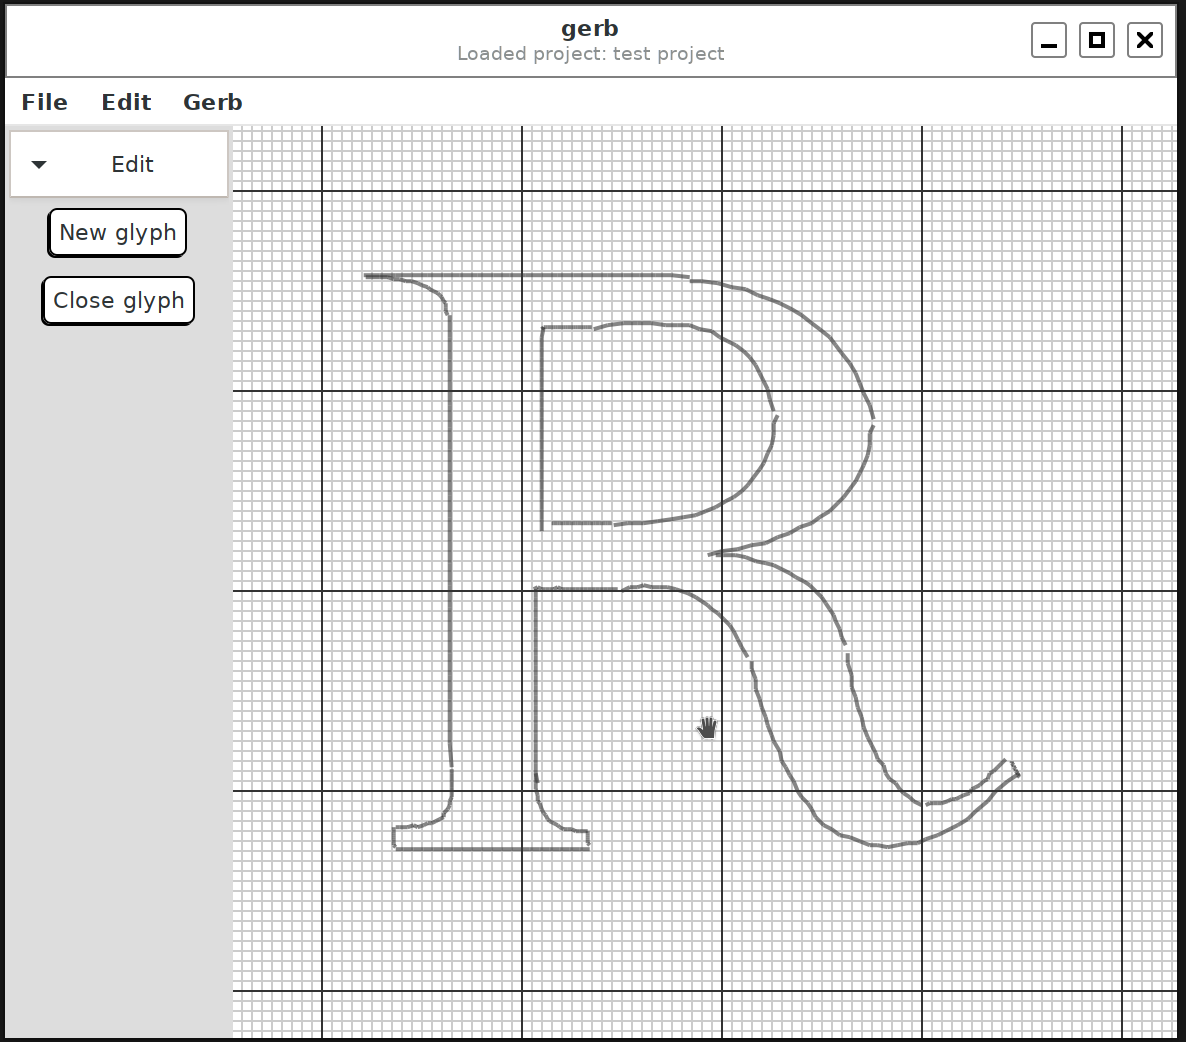
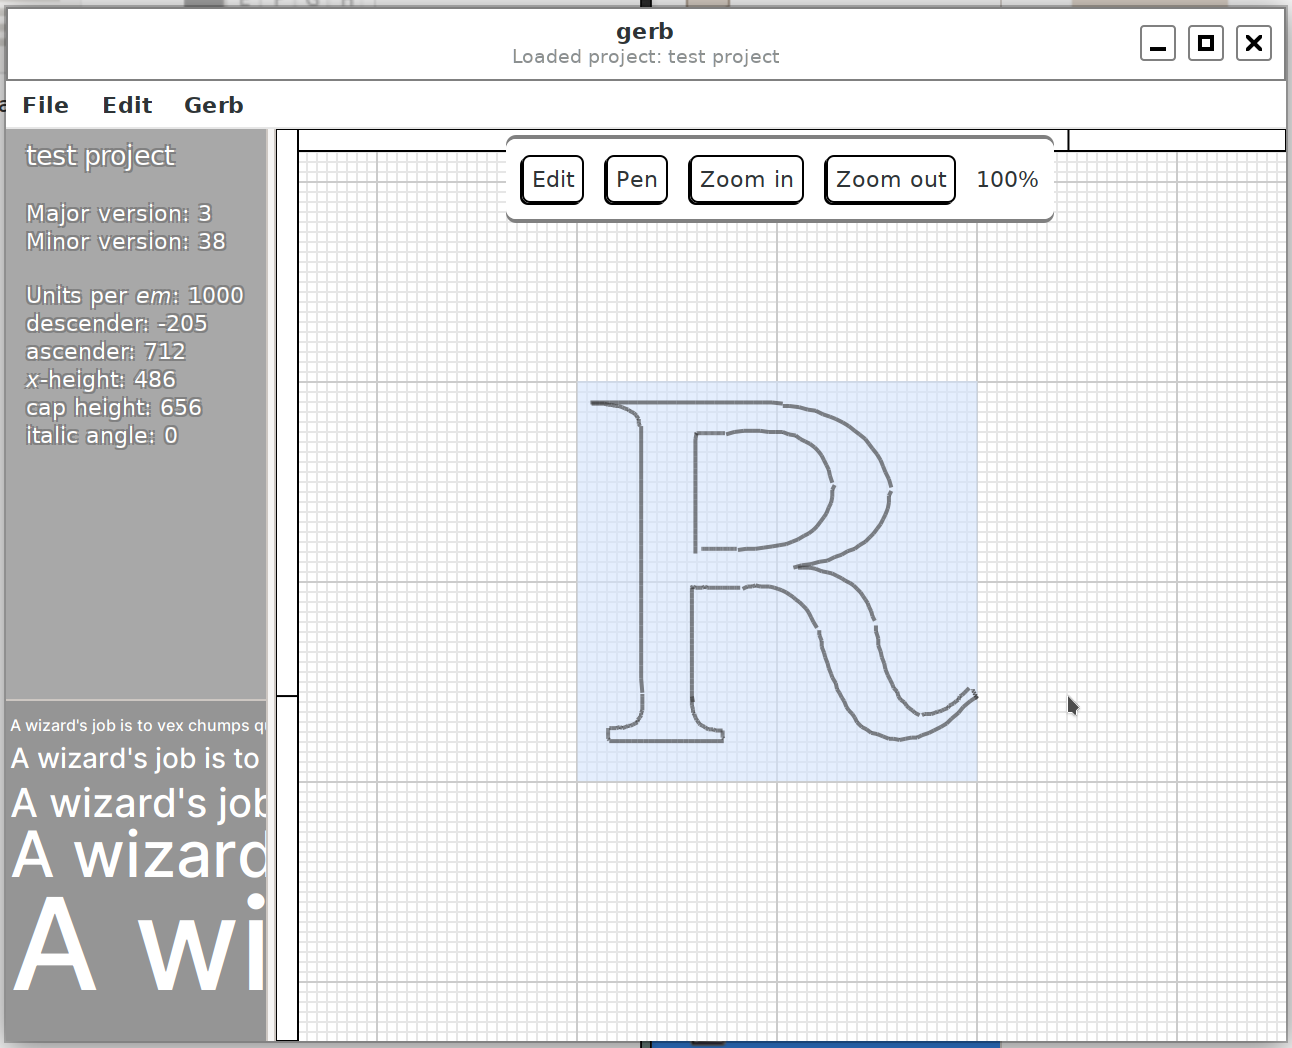
Replace sidebar with Project info view

diff --git a/src/custom.css b/src/custom.css
@@ -44,12 +44,19 @@ window headerbar * {
   background: white;
 }
 
+
+.text-button:checked label {
+  color: white;
+  background: black;
+}
+
 toolpalette  {
   background: #DDD;
 }
 
 .text-button {
   background: none;
+  padding: 5px;
 }
 
 .glyph-edit-toolbox {
@@ -62,4 +69,23 @@ toolpalette  {
 
 .glyph-edit-toolbox * {
   padding: 2px;
+}
+
+.project-label {
+  padding: 5px;
+  /*
+  background: #a8a8a8;
+  color: #2d2d2d;
+   */
+}
+
+.sidebar {
+  background: #a8a8a8;
+  color: #fff;
+  text-shadow: 1px 1px grey, -1px -1px grey, 1px -1px grey, -1px 1px grey;
+}
+
+.project-minimap {
+  background: #959595;
+  color:black;
 }

diff --git a/src/window.rs b/src/window.rs
@@ -20,12 +20,12 @@
  */
 
 use glib::clone;
+use gtk::cairo::{Context, FontSlant, FontWeight};
 use gtk::glib;
 use gtk::glib::subclass::Signal;
 use gtk::prelude::*;
 use gtk::subclass::prelude::*;
 use once_cell::{sync::Lazy, unsync::OnceCell};
-use std::cell::Cell;
 use std::sync::{Arc, Mutex};
 
 use crate::app::GerbApp;
@@ -34,11 +34,13 @@ use crate::project::Project;
 #[derive(Debug)]
 struct WindowWidgets {
     headerbar: gtk::HeaderBar,
-    grid: gtk::Grid,
+    paned: gtk::Paned,
     tool_palette: gtk::ToolPalette,
     create_item_group: gtk::ToolItemGroup,
     project_item_group: gtk::ToolItemGroup,
     stack: gtk::Stack,
+    project_label: gtk::Label,
+    minimap: gtk::DrawingArea,
 }
 
 #[derive(Debug, Default)]
@@ -74,10 +76,16 @@ impl ObjectImpl for Window {
             .visible(true)
             .can_focus(true)
             .build();
-        let grid = gtk::Grid::builder().expand(true).visible(true).build();
-        grid.attach(&stack, 1, 0, 1, 1);
+        let paned = gtk::Paned::builder()
+            .orientation(gtk::Orientation::Horizontal)
+            .expand(true)
+            .visible(true)
+            .wide_handle(true)
+            .position(130)
+            .build();
+        paned.pack2(&stack, true, false);
 
-        obj.set_child(Some(&grid));
+        obj.set_child(Some(&paned));
         obj.set_titlebar(Some(&headerbar));
         obj.set_default_size(640, 480);
         obj.set_events(
@@ -94,15 +102,79 @@ impl ObjectImpl for Window {
             None
         }));
 
-        let tool_palette = gtk::ToolPalette::new();
-        tool_palette.set_border_width(2);
+        let tool_palette = gtk::ToolPalette::builder()
+            .border_width(2)
+            .hexpand(false)
+            .vexpand(true)
+            .build();
         let create_item_group = gtk::ToolItemGroup::new("Create/load project");
         let new_button = gtk::ToolButton::new(gtk::ToolButton::NONE, Some("Create"));
         let load_button = gtk::ToolButton::new(gtk::ToolButton::NONE, Some("Load..."));
         create_item_group.add(&new_button);
         create_item_group.add(&load_button);
         tool_palette.add(&create_item_group);
-        grid.attach(&tool_palette, 0, 0, 1, 1);
+
+        let sidebar = gtk::Paned::builder()
+            .orientation(gtk::Orientation::Vertical)
+            .expand(true)
+            .position(300)
+            .visible(true)
+            .can_focus(true)
+            .build();
+        let project_label = gtk::Label::builder()
+            .label("No project loaded.")
+            .expand(true)
+            .visible(true)
+            .build();
+        project_label.set_valign(gtk::Align::Start);
+        project_label.style_context().add_class("project-label");
+        sidebar.pack1(&project_label, true, false);
+        let minimap = gtk::DrawingArea::builder()
+            .expand(true)
+            .visible(true)
+            .tooltip_text("pangram minimap")
+            .build();
+
+        minimap.connect_draw(clone!(@weak obj => @default-return Inhibit(false), move |_drar: &gtk::DrawingArea, cr: &Context| {
+            const PANGRAM: &str = "A wizard's job is to vex chumps quickly in fog.";
+            let (red, green, blue) = crate::utils::hex_color_to_rgb("#959595").unwrap();
+            cr.set_source_rgb(red, green, blue);
+            cr.paint().expect("Invalid cairo surface state");
+            cr.select_font_face("Inter", FontSlant::Normal, FontWeight::Normal);
+            cr.set_source_rgb(1., 1., 1.);
+            cr.set_font_size(8.);
+            let (x, mut y) = (2., 15.);
+            cr.move_to(x, y);
+            let extends = cr.text_extents(PANGRAM).unwrap();
+            cr.show_text(PANGRAM).expect("Invalid cairo surface state");
+            y += extends.height + 10.;
+            cr.move_to(x, y);
+            cr.set_font_size(14.);
+            let extends = cr.text_extents(PANGRAM).unwrap();
+            cr.show_text(PANGRAM).expect("Invalid cairo surface state");
+            y += extends.height + 10.;
+            cr.move_to(x, y);
+            cr.set_font_size(20.);
+            let extends = cr.text_extents(PANGRAM).unwrap();
+            cr.show_text(PANGRAM).expect("Invalid cairo surface state");
+            y += extends.height + 10.;
+            cr.move_to(x, y);
+            cr.set_font_size(32.);
+            let extends = cr.text_extents(PANGRAM).unwrap();
+            cr.show_text(PANGRAM).expect("Invalid cairo surface state");
+            y += extends.height + 25.;
+            cr.move_to(x, y);
+            cr.set_font_size(64.);
+            let extends = cr.text_extents(PANGRAM).unwrap();
+            cr.show_text(PANGRAM).expect("Invalid cairo surface state");
+            y += extends.height;
+            cr.move_to(x, y);
+            Inhibit(false)
+        }));
+        minimap.style_context().add_class("project-minimap");
+        sidebar.pack2(&minimap, true, false);
+        sidebar.style_context().add_class("sidebar");
+        paned.pack1(&sidebar, true, true);
 
         let project_item_group = gtk::ToolItemGroup::new("Edit");
         let new_button = gtk::ToolButton::new(gtk::ToolButton::NONE, Some("New glyph"));
@@ -111,11 +183,13 @@ impl ObjectImpl for Window {
         self.widgets
             .set(WindowWidgets {
                 headerbar,
-                grid,
+                paned,
                 stack,
                 tool_palette,
                 create_item_group,
                 project_item_group,
+                project_label,
+                minimap,
             })
             .expect("Failed to initialize window state");
         self.project.set(Arc::new(Mutex::new(None))).unwrap();
@@ -157,6 +231,11 @@ impl Window {
             widgets.tool_palette.add(&widgets.project_item_group);
             widgets.project_item_group.set_visible(true);
         }
+        widgets.project_label.set_markup(&format!("<big>{name}</big>\n\nMajor version: {version_major}\nMinor version: {version_minor}\n\nUnits per <i>em</i>: {units_per_em}\ndescender: {descender}\nascender: {ascender}\n<i>x</i>-height: {x_height}\ncap height: {cap_height}\nitalic angle: {italic_angle}", name=&project.name, version_major=project.version_major,version_minor=project.version_minor, units_per_em=project.units_per_em, descender=project.descender, x_height=project.x_height, cap_height=project.cap_height, ascender=project.ascender, italic_angle=project.italic_angle));
+        widgets.project_label.set_single_line_mode(false);
+        widgets.project_label.set_use_markup(true);
+        widgets.project_label.queue_draw();
+        widgets.minimap.queue_draw();
         let mutex = self.project.get().unwrap();
         let mut lck = mutex.lock().unwrap();
         *lck = Some(project);
@@ -171,8 +250,12 @@ impl Window {
 
     pub fn edit_glyph(&self, glyph: &crate::project::Glyph) {
         let widgets = self.widgets.get().unwrap();
-        let edit_view =
-            crate::views::GlyphEditView::new(self.app.get().unwrap().clone(), glyph.clone());
+        let mutex = self.project.get().unwrap();
+        let edit_view = crate::views::GlyphEditView::new(
+            self.app.get().unwrap().clone(),
+            mutex.clone(),
+            glyph.clone(),
+        );
         widgets.stack.add(&edit_view);
         widgets.stack.set_visible_child(&edit_view);
         widgets.stack.queue_draw();

diff --git a/src/views/glyph_edit.rs b/src/views/glyph_edit.rs
@@ -25,8 +25,9 @@ use gtk::prelude::*;
 use gtk::subclass::prelude::*;
 use once_cell::unsync::OnceCell;
 use std::cell::Cell;
+use std::sync::{Arc, Mutex};
 
-use crate::project::Glyph;
+use crate::project::{Glyph, Project};
 
 #[derive(Debug, Default)]
 pub struct GlyphEditArea {
@@ -39,6 +40,7 @@ pub struct GlyphEditArea {
     mouse: Cell<(f64, f64)>,
     zoom: Cell<f64>,
     button: Cell<Option<u32>>,
+    project: OnceCell<Arc<Mutex<Option<Project>>>>,
 }
 
 #[glib::object_subclass]
@@ -115,6 +117,15 @@ impl ObjectImpl for GlyphEditArea {
         drawing_area.connect_draw(clone!(@weak obj => @default-return Inhibit(false), move |drar: &gtk::DrawingArea, cr: &gtk::cairo::Context| {
             let zoom_factor = obj.imp().zoom.get();
             cr.scale(zoom_factor, zoom_factor);
+            let (_units_per_em, x_height, _cap_height, _ascender) = {
+                let mutex = obj.imp().project.get().unwrap();
+                let lck = mutex.lock().unwrap();
+                if lck.is_none() {
+                    return Inhibit(false);
+                }
+                let p = lck.as_ref().unwrap();
+                (p.units_per_em, p.x_height, p.cap_height, p.ascender)
+            };
             let width = drar.allocated_width() as f64;
             let height = drar.allocated_height() as f64;
             cr.set_source_rgb(1., 1., 1.);
@@ -150,6 +161,13 @@ impl ObjectImpl for GlyphEditArea {
             cr.set_source_rgba(210./255., 227./255., 252./255., 0.6);
             cr.rectangle(0., 0., 200., 200.);
             cr.fill().unwrap();
+
+            /* Draw x-height */
+            cr.set_source_rgba(1.0, 0., 0., 0.6);
+            cr.set_line_width(2.0);
+            cr.move_to(0., x_height);
+            cr.line_to(200., x_height);
+            cr.stroke().unwrap();
 
             /* Draw the glyph */
 
@@ -272,10 +290,11 @@ glib::wrapper! {
 }
 
 impl GlyphEditView {
-    pub fn new(app: gtk::Application, glyph: Glyph) -> Self {
+    pub fn new(app: gtk::Application, project: Arc<Mutex<Option<Project>>>, glyph: Glyph) -> Self {
         let ret: Self = glib::Object::new(&[]).expect("Failed to create Main Window");
         ret.imp().glyph.set(glyph).unwrap();
         ret.imp().app.set(app).unwrap();
+        ret.imp().project.set(project).unwrap();
         ret
     }
 }

diff --git a/src/views/glyphs_overview.rs b/src/views/glyphs_overview.rs
@@ -22,10 +22,9 @@
 use glib::clone;
 use gtk::cairo::{Context, FontSlant, FontWeight};
 use gtk::glib;
-use gtk::glib::subclass::Signal;
 use gtk::prelude::*;
 use gtk::subclass::prelude::*;
-use once_cell::{sync::Lazy, unsync::OnceCell};
+use once_cell::unsync::OnceCell;
 use std::cell::Cell;
 use std::sync::{Arc, Mutex};
 
@@ -81,8 +80,9 @@ impl ObjectImpl for GlyphsArea {
         let hide_empty_button = gtk::ToggleToolButton::builder()
             .label("Hide empty glyphs")
             .valign(gtk::Align::Center)
+            .halign(gtk::Align::Start)
             .build();
-        hide_empty_button.connect_clicked(clone!(@weak obj => move |_| {
+        hide_empty_button.connect_toggled(clone!(@weak obj => move |_| {
             let imp = obj.imp();
             let hide_empty = !imp.hide_empty.get();
             imp.hide_empty.set(hide_empty);
@@ -90,6 +90,14 @@ impl ObjectImpl for GlyphsArea {
             imp.grid.get().unwrap().queue_draw();
         }));
         glyph_overview_tools.add(&hide_empty_button);
+        let add_glyph_button = gtk::ToggleToolButton::builder()
+            .label("Add glyph")
+            .valign(gtk::Align::Center)
+            .halign(gtk::Align::Start)
+            .build();
+        add_glyph_button.connect_clicked(clone!(@weak obj => move |_| {
+        }));
+        glyph_overview_tools.add(&add_glyph_button);
         tool_palette.add(&glyph_overview_tools);
         tool_palette
             .style_context()

diff --git a/src/project.rs b/src/project.rs
@@ -146,7 +146,7 @@ impl Glyph {
                 }
             }
             let new_point = *c.points.last().unwrap();
-            let mut new_point = (new_point.0 as f64, new_point.1 as f64);
+            let new_point = (new_point.0 as f64, new_point.1 as f64);
             strokes.push(((prev_point.0, prev_point.1), (new_point.0, new_point.1)));
         }
         for &((ax, ay), (bx, by)) in &strokes {

diff --git a/README.md b/README.md
@@ -1,6 +1,7 @@
 # `gerb`
 
-WIP, ignore for now.
+1. _*gerb ʰ-_: [reconstructed Proto-Indo-European root](https://en.wiktionary.org/wiki/Reconstruction:Proto-Indo-European/gerb%CA%B0-), meaning _to carve_
+2. `gerb`: a WIP font editor in `gtk3` and `rust`, ignore for now
 
 ![./screenshot.png](./screenshot.png)
 
